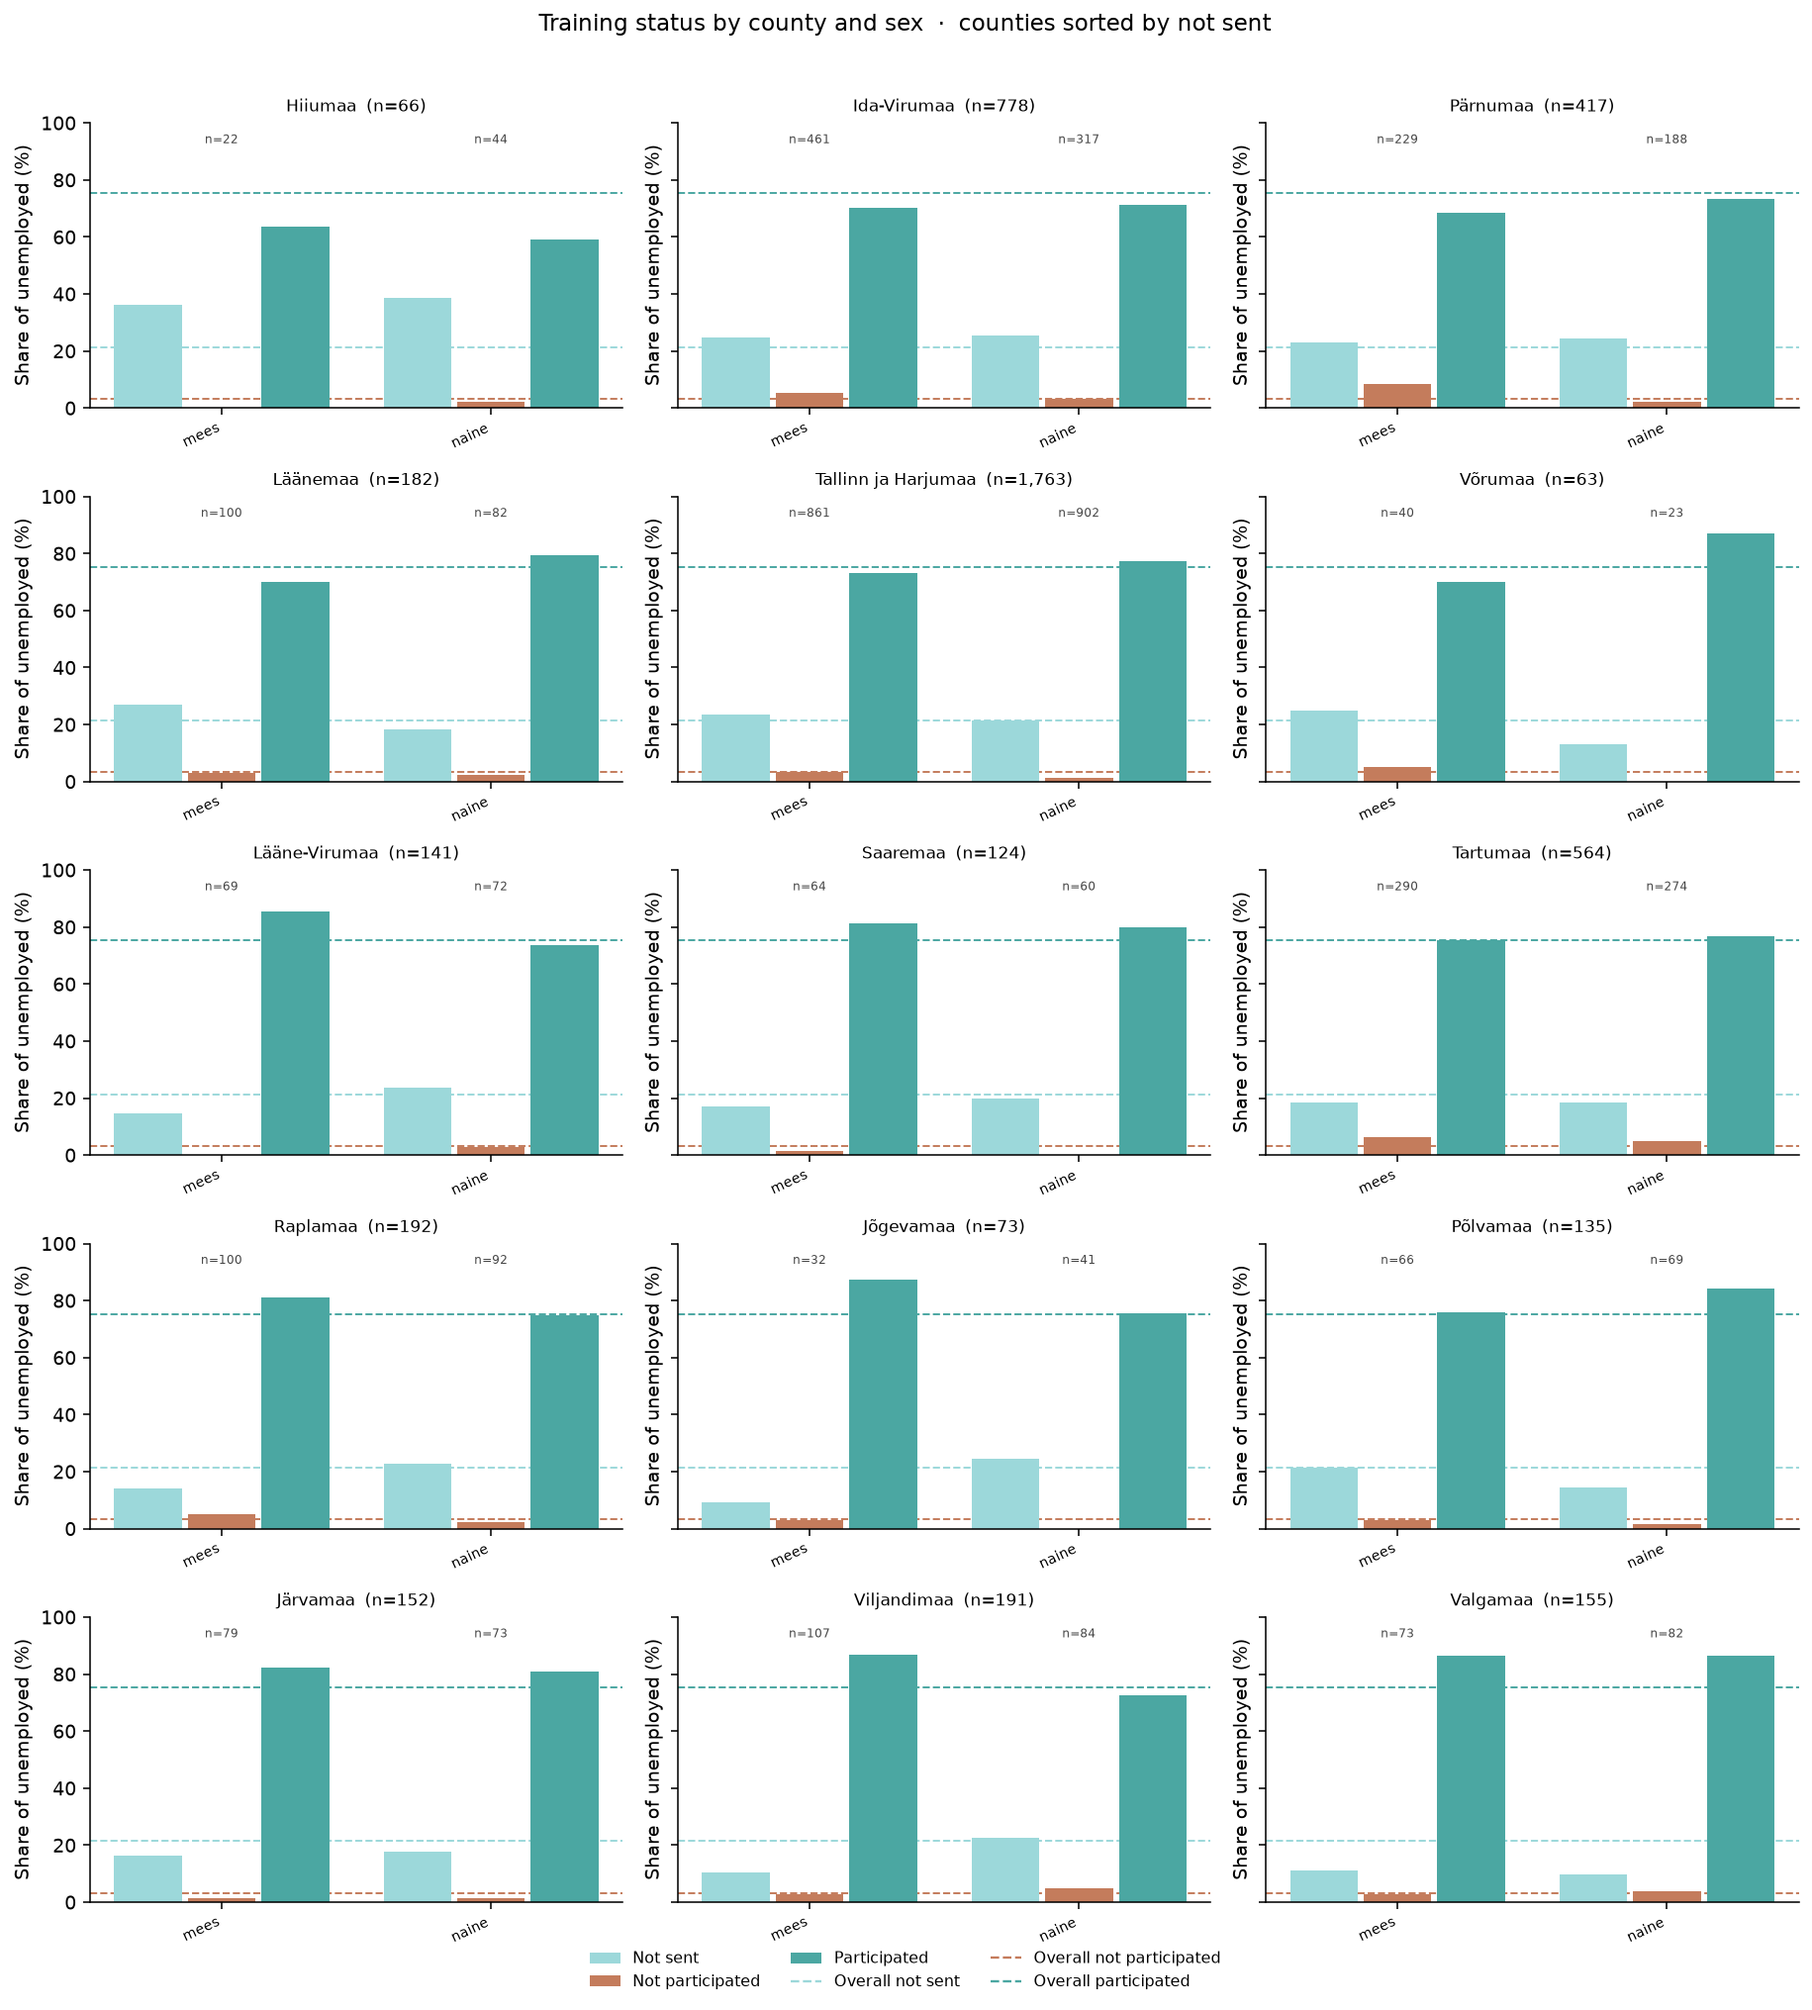
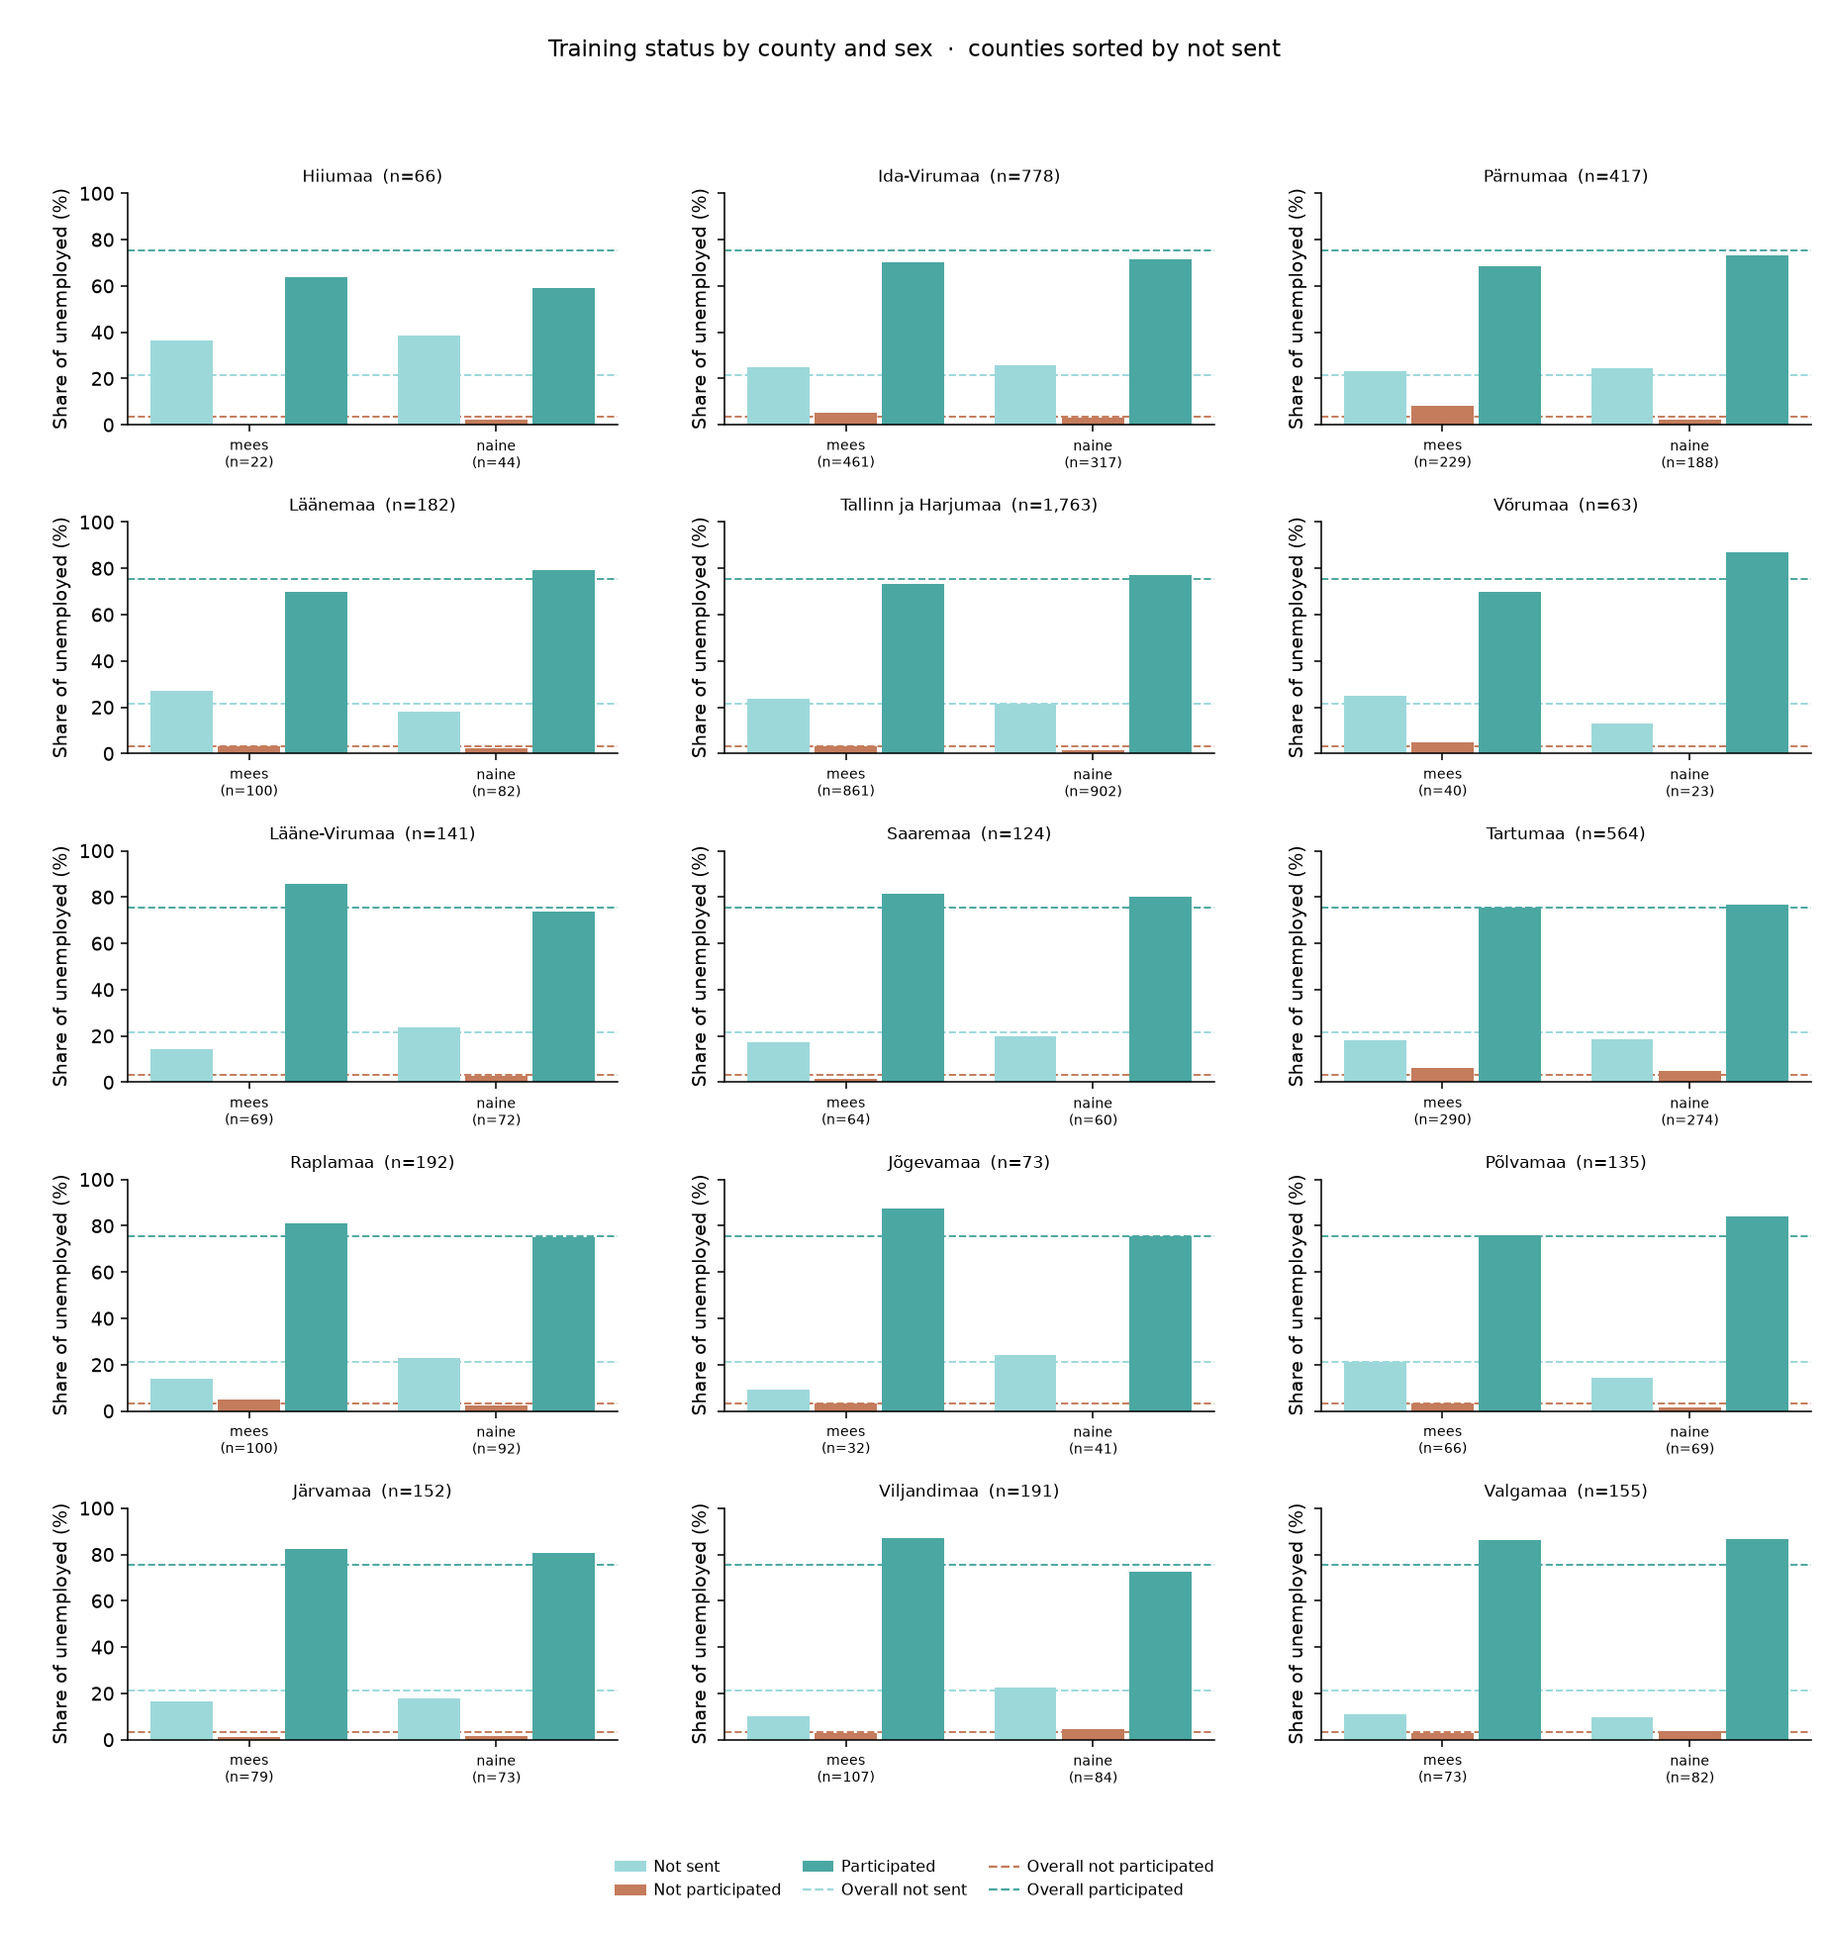
Move the training-status legend above the panels so category names no longer overlap the axis labels.

diff --git a/src/analysis/training_status_charts.py b/src/analysis/training_status_charts.py
@@ -106,6 +106,31 @@ def _hide_extra(axes, used: int) -> None:
         ax.set_visible(False)
 
 
+def _add_title_and_legend(fig, title: str, *, single_row: bool) -> None:
+    """Title, then legend, then a gap, then the panels — no overlap with labels."""
+    fig.suptitle(title, fontsize=12, y=0.98)
+    wide = fig.get_size_inches()[0] >= 12
+    if single_row:
+        ncol = 6 if wide else 3
+        top = 0.72 if wide else 0.62
+        fig.subplots_adjust(top=top, bottom=0.16, left=0.08, right=0.99, wspace=0.28)
+        legend_y = 0.90
+    else:
+        fig.subplots_adjust(top=0.90, bottom=0.10, left=0.07, right=0.99, hspace=0.42, wspace=0.22)
+        legend_y = 0.045
+        ncol = 3
+    fig.legend(
+        handles=_legend_handles(),
+        loc="upper center",
+        bbox_to_anchor=(0.5, legend_y),
+        ncol=ncol,
+        frameon=False,
+        fontsize=8,
+        columnspacing=1.4,
+        handletextpad=0.5,
+    )
+
+
 def plot_status_facets(
     wide: pd.DataFrame,
     overall_pct: dict[str, float],
@@ -149,18 +174,9 @@ def plot_status_facets(
         ax.set_title(f"{row.group}  (n={int(row.n):,})", fontsize=9)
 
     _hide_extra(axes_list, n_panels)
-    fig.suptitle(title, fontsize=12, y=1.02)
-    fig.legend(
-        handles=_legend_handles(),
-        loc="lower center",
-        ncol=3,
-        frameon=False,
-        bbox_to_anchor=(0.5, -0.02),
-        fontsize=8,
-    )
-    fig.tight_layout()
+    _add_title_and_legend(fig, title, single_row=nrows == 1)
     path = PNG_DIR / filename
-    fig.savefig(path, dpi=140, bbox_inches="tight")
+    fig.savefig(path, dpi=140)
     plt.close(fig)
     return path
 
@@ -194,34 +210,27 @@ def plot_cross_facets(
         ax = axes_list[i]
         sub = long_df.loc[long_df["group_a"].astype(str) == panel]
         n_panel = int(sub.groupby("group_b", observed=True)["n_group"].first().sum())
+        inner_labels = []
         for j, inner in enumerate(inner_order):
             cell = sub.loc[sub["group_b"].astype(str) == str(inner)]
             n_cell = int(cell["n_group"].iloc[0]) if not cell.empty else 0
+            inner_labels.append(
+                f"{inner}\n(n={n_cell:,})" if n_inner <= 3 else str(inner)
+            )
             for k, status in enumerate(STATUS_ORDER):
                 match = cell.loc[cell["status"] == status]
                 pct = 100 * float(match["pct_within_group"].iloc[0]) if not match.empty else 0.0
                 x = j + (k - (n_status - 1) / 2) * bar_w
                 ax.bar(x, pct, width=bar_w * 0.92, color=colors[k], zorder=2)
-            if n_inner <= 3:
-                ax.text(j, 96, f"n={n_cell:,}", ha="center", va="top", fontsize=6, color="#444444")
         _style_panel(ax, overall_pct)
         ax.set_xticks(range(n_inner))
-        ax.set_xticklabels([str(v) for v in inner_order], fontsize=7, rotation=25, ha="right")
+        ax.set_xticklabels(inner_labels, fontsize=7, rotation=0)
         ax.set_title(f"{panel}  (n={n_panel:,})", fontsize=8.5)
 
     _hide_extra(axes_list, n_panels)
-    fig.suptitle(title, fontsize=12, y=1.01)
-    fig.legend(
-        handles=_legend_handles(),
-        loc="lower center",
-        ncol=3,
-        frameon=False,
-        bbox_to_anchor=(0.5, -0.02),
-        fontsize=8,
-    )
-    fig.tight_layout()
+    _add_title_and_legend(fig, title, single_row=nrows == 1)
     path = PNG_DIR / filename
-    fig.savefig(path, dpi=140, bbox_inches="tight")
+    fig.savefig(path, dpi=140)
     plt.close(fig)
     return path
 
@@ -299,7 +308,7 @@ def run_training_status_charts(
             "Training status by sex  ·  panels sorted by not sent",
             "training_status_facet_sex.png",
             ncols=2,
-            figsize=(8.4, 4.6),
+            figsize=(9.2, 6.4),
         ),
         "age": plot_status_facets(
             by_age,
@@ -307,7 +316,7 @@ def run_training_status_charts(
             "Training status by age group  ·  panels sorted by not sent",
             "training_status_facet_age.png",
             ncols=5,
-            figsize=(13.8, 4.8),
+            figsize=(14.6, 6.5),
         ),
         "county_sex": plot_cross_facets(
             by_county_sex,

diff --git a/src/analysis/training_status_age_sex.py b/src/analysis/training_status_age_sex.py
@@ -87,7 +87,7 @@ def run_training_status_age_sex(
         "Training status by age group and sex  ·  age panels sorted by not sent",
         "training_status_facet_age_sex.png",
         ncols=5,
-        figsize=(14.2, 5.2),
+        figsize=(15.0, 6.8),
     )
     return {"csv": csv_path, "txt": txt_path, "png": png_path}
 

diff --git a/docs/process.md b/docs/process.md
@@ -82,3 +82,6 @@ Completed tasks, newest last.
 21. **Facet charts sorted by not sent; age × sex**
     - Sorted all training-status facet PNGs by not-sent share. Added `src/analysis/training_status_age_sex.py` and `training_status_facet_age_sex.png`.
     - Updated `ANALYSIS.md` section 16 and insight 12. Hooked the new step into `main.py`.
+
+22. **Legend spacing on facet PNGs**
+    - Moved the legend above the panels and reserved a gap so legend text no longer overlaps axis labels on the sex, age, and age×sex figures.
